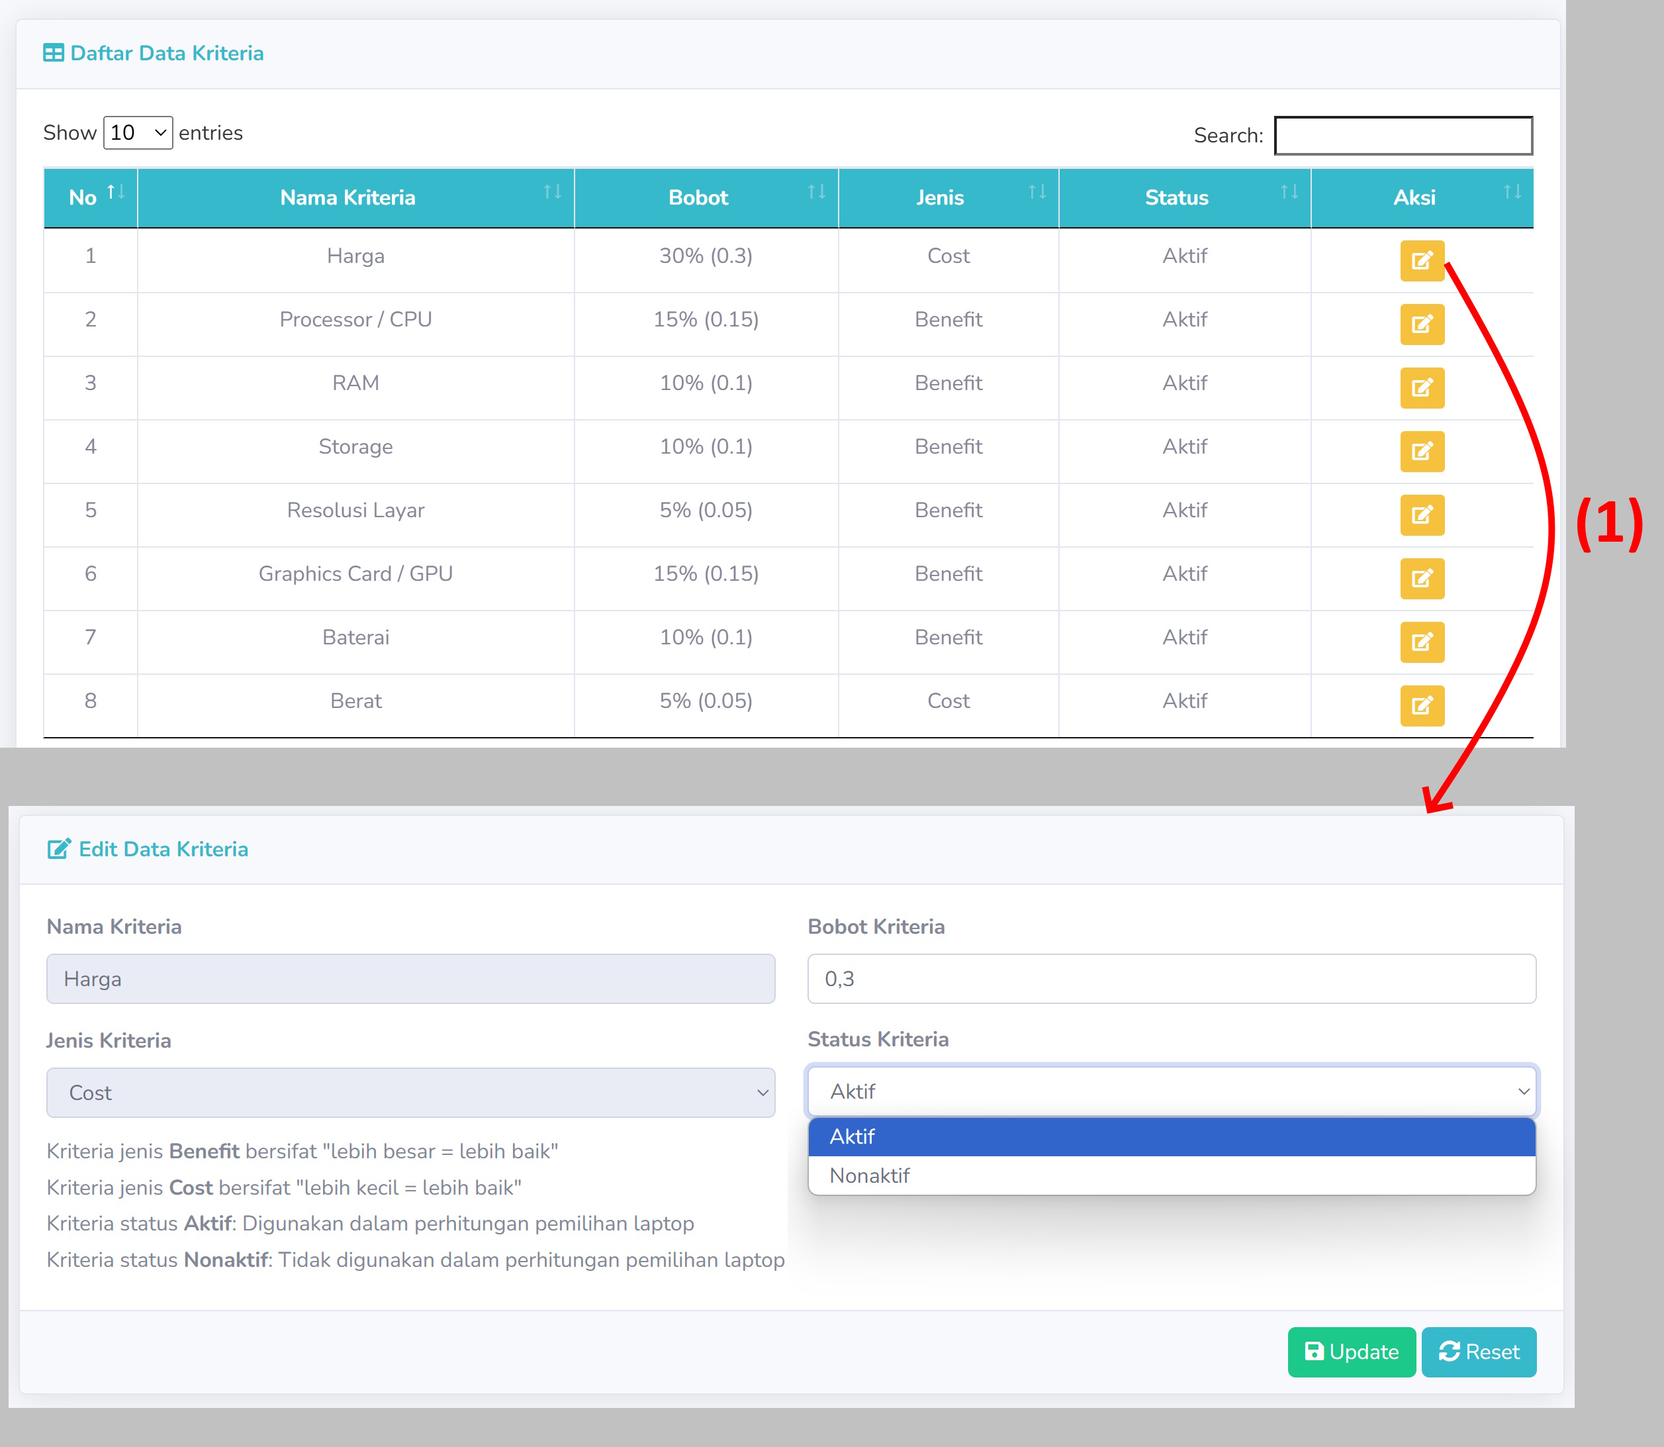
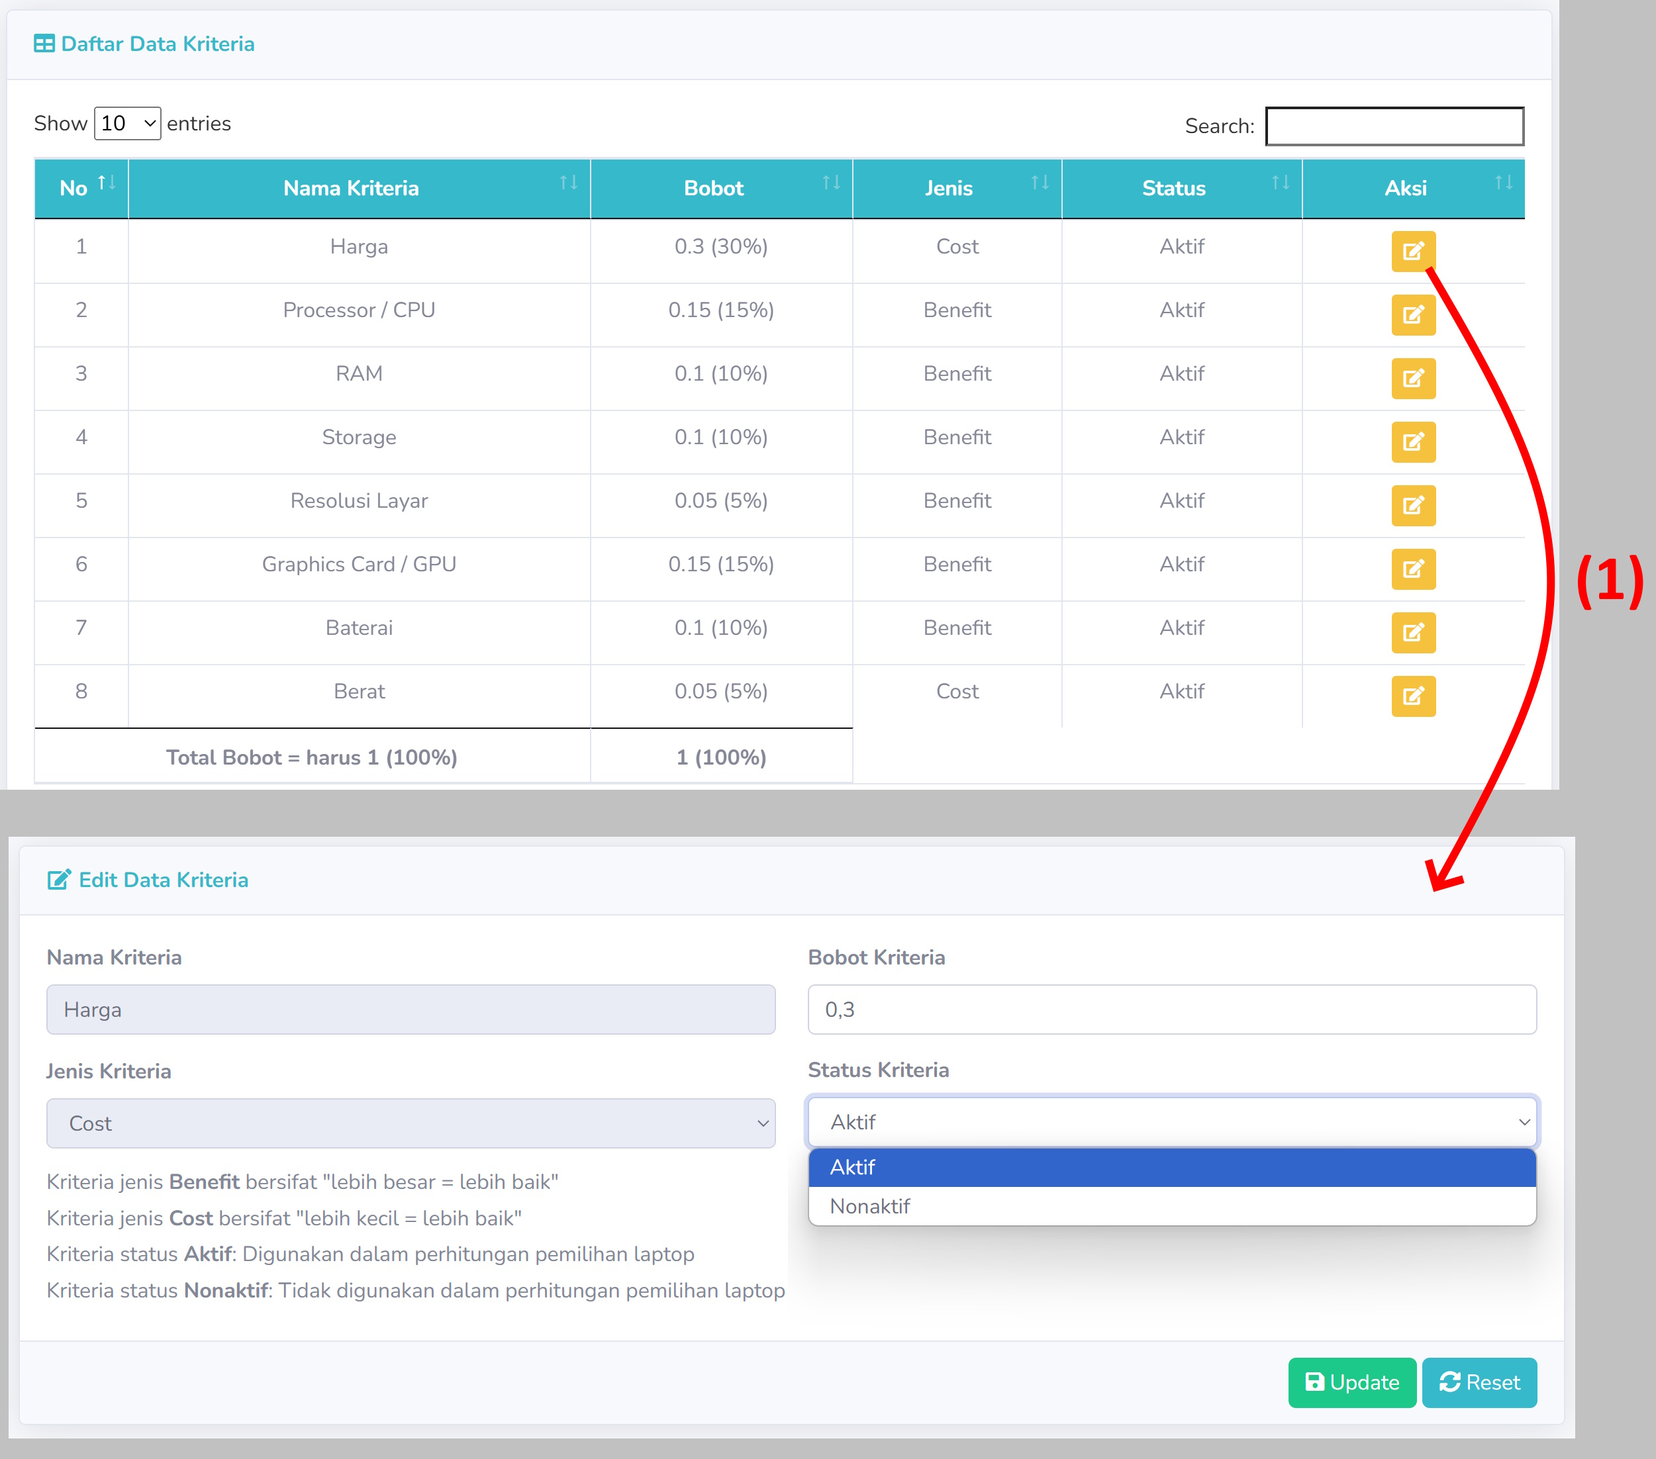
Perbaikan lulus Sidang TA (10-04-2025)

Changed region(s): [[0.0, 0.0, 0.998, 0.9959], [0.0312, 0.3735, 0.0624, 0.4046], [0.0312, 0.2801, 0.0624, 0.3112]]

diff --git a/application/views/kriteria/index.php b/application/views/kriteria/index.php
@@ -30,16 +30,17 @@
 							<th>Kode Kriteria</th>
 						<?php endif; ?>
 						<th>Nama Kriteria</th>
-						<th>Bobot</th>
 						<th>Jenis</th>
-						<th>Status</th>
+						<th>Bobot</th>
 						<th width="15%">Aksi</th>
 					</tr>
 				</thead>
 				<tbody>
 					<?php
+						$jumlah_bobot = 0;
 						$no=1;
 						foreach ($list as $data => $value) {
+							$jumlah_bobot += $value->bobot;
 					?>
 					<tr align="center">
 						<td><?=$no ?></td>
@@ -47,38 +48,97 @@
 							<td><?php echo $value->kode_kriteria ?></td>
 						<?php endif; ?>
 						<td><?php echo $value->keterangan ?></td>
-						<td><?php echo ($value->bobot)*100 ?>% (<?php echo $value->bobot ?>)</td>
 						<td><?php echo $value->jenis ?></td>
-						<td><?php echo $value->status_kriteria ?></td>
+						<td><?php echo $value->bobot ?>%</td>
 						<td>
 							<div class="btn-group" role="group">
-								<a data-toggle="tooltip" data-placement="bottom" title="Edit Data" href="<?=base_url('Kriteria/edit/'.$value->id_kriteria)?>" class="btn btn-warning btn-sm"><i class="fa fa-edit"></i></a>
+								<!-- Kolom Aksi untuk Admin -->
 								<?php if($this->session->userdata('id_user_level') == '1'): ?>
+									<a data-toggle="tooltip" data-placement="bottom" title="Edit Data" href="<?=base_url('Kriteria/edit/'.$value->id_kriteria)?>" class="btn btn-warning btn-sm"><i class="fa fa-edit"></i></a>
 									<a  data-toggle="tooltip" data-placement="bottom" title="Hapus Data" href="<?=base_url('Kriteria/destroy/'.$value->id_kriteria)?>" onclick="return confirm ('Apakah anda yakin untuk menghapus data ini?')" class="btn btn-danger btn-sm"><i class="fa fa-trash"></i></a>
+								<?php endif; ?>
+
+								<!-- Kolom Aksi untuk User -->
+								<?php if($this->session->userdata('id_user_level') != '1'): ?>
+									<a data-toggle="modal" title="Edit Data" href="#editk<?= $value->id_kriteria ?>" class="btn btn-warning btn-sm"><i class="fa fa-edit"></i></a>
 								<?php endif; ?>
 							</div>
 						</td>
 					</tr>
+
+					<!-- Modal Edit Bobot Kriteria (User) -->
+					<div class="modal fade" id="editk<?= $value->id_kriteria ?>" tabindex="-1" role="dialog" aria-labelledby="myModalLabel" aria-hidden="true">
+						<div class="modal-dialog">
+							<div class="modal-content">
+								<div class="modal-header">
+									<h5 class="modal-title" id="myModalLabel"><i class="fa fa-edit"></i> Edit <?= $value->keterangan ?></h5>
+									<button type="button" class="close" data-dismiss="modal" aria-hidden="true">&times;</button>
+								</div>
+								<?= form_open('Kriteria/update_user/'.$value->id_kriteria) ?>
+									<?= form_hidden('id_kriteria', $value->id_kriteria) ?>
+									<div class="modal-body">
+										<input type="text" name="id_kriteria" value="<?= $value->id_kriteria ?>" hidden>
+										<div class="form-group" <?php if ($this->session->userdata('id_user_level') != "1") echo " style='display: none';"; ?>>
+											<label class="font-weight-bold">Kode Kriteria</label>
+											<input autocomplete="off" type="text" name="kode_kriteria" value="<?php echo $value->kode_kriteria ?>" required class="form-control" <?php if($this->session->userdata('id_user_level') != "1"){echo "readonly";} ?> />
+										</div>
+										<div class="form-group">
+											<label class="font-weight-bold">Nama Kriteria</label>
+											<input autocomplete="off" type="text" name="keterangan" value="<?php echo $value->keterangan ?>" required class="form-control" <?php if($this->session->userdata('id_user_level') != "1"){echo "readonly";} ?> />
+										</div>
+										<div class="form-group">
+											<label class="font-weight-bold">Jenis Kriteria</label>
+											<select name="jenis" class="form-control" required <?php if($this->session->userdata('id_user_level') != "1"){echo "readonly style='pointer-events: none';";} ?>>
+												<option value="Benefit" <?php if($value->jenis == "Benefit"){ echo 'selected'; } ?>>Benefit</option>
+												<option value="Cost" <?php if($value->jenis == "Cost"){ echo 'selected'; } ?>>Cost</option>						
+											</select>
+										</div>
+										<div class="form-group">
+											<label for="bobot" class="font-weight-bold">Bobot Kriteria (%)</label>
+											<input type="number" autocomplete="off" id="bobot" name="bobot" min="0" max="100" class="form-control" value="<?= $value->bobot ?>" required>
+										</div>
+									</div>
+									<div class="modal-footer">
+										<button type="button" class="btn btn-warning" data-dismiss="modal"><i class="fa fa-times"></i> Batal</button>
+										<button type="submit" class="btn btn-success"><i class="fa fa-save"></i> Update</button>
+									</div>
+								<?php echo form_close() ?>
+							</div>
+						</div>
+					</div>
+
 					<?php
 						$no++;
 						}
 					?>
 				</tbody>
+				<?php if($jumlah_bobot > 0): ?>
+					<tfoot style="text-align:center">
+						<tr>
+							<?php if($this->session->userdata('id_user_level') == '1'): ?>
+								<td colspan="4" ><b>Total Bobot = harus 100%</b></td>
+							<?php endif; ?>
+
+							<?php if($this->session->userdata('id_user_level') != '1'): ?>
+								<td colspan="3" ><b>Total Bobot = harus 100%</b></td>
+							<?php endif; ?>
+							<td><b><?php echo $jumlah_bobot ?>%</b></td>
+						</tr>
+					</tfoot>
+				<?php endif; ?>
 			</table>
 			<!-- Penjelasan Benefit / Cost jika Admin -->
 			<?php if($this->session->userdata('id_user_level') == '1'): ?>
 				<h6> Kriteria jenis <b>Benefit</b>: Nilai Sub Kriteria yang lebih besar = lebih baik </h6>
 				<h6> Kriteria jenis <b>Cost</b>: Nilai Sub Kriteria yang lebih kecil = lebih baik </h6>
-				<h6> Kriteria status <b>Aktif</b>: Digunakan dalam perhitungan pemilihan alternatif </h6>
-				<h6> Kriteria status <b>Nonaktif</b>: Tidak digunakan dalam perhitungan pemilihan alternatif </h6>
+				<h6> Kriteria bobot <b>0%</b>: Tidak digunakan dalam perhitungan pemilihan alternatif </h6>
 			<?php endif; ?>
 
 			<!-- Penjelasan Benefit / Cost jika User -->
 			<?php if($this->session->userdata('id_user_level') != '1'): ?>
 				<h6> Kriteria jenis <b>Benefit</b> bersifat "lebih besar = lebih baik" </h6>
 				<h6> Kriteria jenis <b>Cost</b> bersifat "lebih kecil = lebih baik" </h6>
-				<h6> Kriteria status <b>Aktif</b>: Digunakan dalam perhitungan pemilihan laptop </h6>
-				<h6> Kriteria status <b>Nonaktif</b>: Tidak digunakan dalam perhitungan pemilihan laptop </h6>
+				<h6> Kriteria bobot <b>0%</b>: Tidak digunakan dalam perhitungan pemilihan laptop </h6>
 			<?php endif; ?>
 		</div>
 	</div>

diff --git a/application/controllers/Kriteria.php b/application/controllers/Kriteria.php
@@ -44,15 +44,13 @@
                     'keterangan' => $this->input->post('keterangan'),
                     'kode_kriteria' => $this->input->post('kode_kriteria'),
                     'bobot' => $this->input->post('bobot'),
-                    'jenis' => $this->input->post('jenis'),
-                    'status_kriteria' => $this->input->post('status_kriteria')
+                    'jenis' => $this->input->post('jenis')
                 ];
                 
                 $this->form_validation->set_rules('keterangan', 'Keterangan', 'required|is_unique[kriteria.keterangan]');
                 $this->form_validation->set_rules('kode_kriteria', 'Kode Kriteria', 'required|is_unique[kriteria.kode_kriteria]');
                 $this->form_validation->set_rules('bobot', 'Bobot', 'required');
                 $this->form_validation->set_rules('jenis', 'Jenis', 'required');
-                $this->form_validation->set_rules('status_kriteria', 'Status Kriteria', 'required');
 
                 
     
@@ -93,8 +91,7 @@
                 'keterangan' => $this->input->post('keterangan'),
                 'kode_kriteria' => $this->input->post('kode_kriteria'),
                 'bobot' => $this->input->post('bobot'),
-                'jenis' => $this->input->post('jenis'),
-                'status_kriteria' => $this->input->post('status_kriteria')
+                'jenis' => $this->input->post('jenis')
             );
 
             // Validasi update data  (https://stackoverflow.com/questions/27621250/is-unique-in-codeigniter-for-edit-function) Ellix4u's solution
@@ -108,6 +105,28 @@
             } else {
                 $this->session->set_flashdata('message', '<div class="alert alert-danger" role="alert">Data gagal di update! Kode atau Nama Kriteria sudah ada di database.</div>');
                 redirect('Kriteria/edit/'.$id_kriteria);
+            }
+        }
+
+        public function update_user($id_kriteria)
+        {
+            // TODO: implementasi update data berdasarkan $id_sub_kriteria
+            $id_kriteria = $this->input->post('id_kriteria');
+            $data = array(
+                'keterangan' => $this->input->post('keterangan'),
+                'kode_kriteria' => $this->input->post('kode_kriteria'),
+                'bobot' => $this->input->post('bobot'),
+                'jenis' => $this->input->post('jenis')
+            );
+
+            // Validasi update data  (https://stackoverflow.com/questions/27621250/is-unique-in-codeigniter-for-edit-function) Ellix4u's solution
+            $id = $this->uri->segment(3);
+            $this->form_validation->set_rules('keterangan', 'Keterangan', 'required|edit_unique[kriteria.keterangan.id_kriteria.'.$id.']');
+            if ($this->form_validation->run() != false) {
+                $this->Kriteria_model->update($id_kriteria, $data);
+                
+                $this->session->set_flashdata('message', '<div class="alert alert-success" role="alert">Bobot Kriteria "'.$this->input->post('keterangan').'" berhasil di update!</div>');
+                redirect('Kriteria');
             }
         }
     

diff --git a/application/views/kriteria/edit.php b/application/views/kriteria/edit.php
@@ -30,11 +30,6 @@
 				</div>
 				
 				<div class="form-group col-md-6">
-					<label class="font-weight-bold">Bobot Kriteria</label>
-					<input autocomplete="off" type="number" name="bobot" step="0.01" min="0.01" max="1" value="<?php echo $kriteria->bobot ?>" required class="form-control"/>
-				</div>
-				
-				<div class="form-group col-md-6">
 					<label class="font-weight-bold">Jenis Kriteria</label>
 					<select name="jenis" class="form-control" required <?php if($this->session->userdata('id_user_level') != "1"){echo "readonly style='pointer-events: none';";} ?>>
 						<option value="Benefit" <?php if($kriteria->jenis == "Benefit"){ echo 'selected'; } ?>>Benefit</option>
@@ -43,27 +38,22 @@
 				</div>
 
 				<div class="form-group col-md-6">
-					<label class="font-weight-bold">Status Kriteria</label>
-					<select name="status_kriteria" class="form-control" required >
-						<option value="Aktif" <?php if($kriteria->status_kriteria == "Aktif"){ echo 'selected'; } ?>>Aktif</option>
-						<option value="Nonaktif" <?php if($kriteria->status_kriteria == "Nonaktif"){ echo 'selected'; } ?>>Nonaktif</option>						
-					</select>
+					<label class="font-weight-bold">Bobot Kriteria (%)</label>
+					<input autocomplete="off" type="number" name="bobot" step="1" min="0" max="100" value="<?php echo $kriteria->bobot ?>" required class="form-control"/>
 				</div>
 			</div>
 			<!-- Penjelasan Benefit / Cost jika Admin -->
 			<?php if($this->session->userdata('id_user_level') == '1'): ?>
 				<h6> Kriteria jenis <b>Benefit</b>: Nilai Sub Kriteria yang lebih besar = lebih baik </h6>
 				<h6> Kriteria jenis <b>Cost</b>: Nilai Sub Kriteria yang lebih kecil = lebih baik </h6>
-				<h6> Kriteria status <b>Aktif</b>: Digunakan dalam perhitungan pemilihan alternatif </h6>
-				<h6> Kriteria status <b>Nonaktif</b>: Tidak digunakan dalam perhitungan pemilihan alternatif </h6>
+				<h6> Kriteria bobot <b>0%</b>: Tidak digunakan dalam perhitungan pemilihan alternatif </h6>
 			<?php endif; ?>
 
 			<!-- Penjelasan Benefit / Cost jika User -->
 			<?php if($this->session->userdata('id_user_level') != '1'): ?>
 				<h6> Kriteria jenis <b>Benefit</b> bersifat "lebih besar = lebih baik" </h6>
 				<h6> Kriteria jenis <b>Cost</b> bersifat "lebih kecil = lebih baik" </h6>
-				<h6> Kriteria status <b>Aktif</b>: Digunakan dalam perhitungan pemilihan laptop </h6>
-			<h6> Kriteria status <b>Nonaktif</b>: Tidak digunakan dalam perhitungan pemilihan laptop </h6>
+				<h6> Kriteria bobot <b>0%</b>: Tidak digunakan dalam perhitungan pemilihan laptop </h6>
 			<?php endif; ?>
 		</div>
 		<div class="card-footer text-right">

diff --git a/application/views/kriteria/create.php b/application/views/kriteria/create.php
@@ -29,11 +29,6 @@
 				</div>
 				
 				<div class="form-group col-md-6">
-					<label class="font-weight-bold">Bobot Kriteria</label>
-					<input autocomplete="off" type="number" name="bobot" step="0.01" min="0.01" max="1" required class="form-control"/>
-				</div>
-				
-				<div class="form-group col-md-6">
 					<label class="font-weight-bold">Jenis Kriteria</label>
 					<select name="jenis" class="form-control" required>
 						<option value="">--Pilih Jenis Kriteria--</option>
@@ -43,18 +38,13 @@
 				</div>
 
 				<div class="form-group col-md-6">
-					<label class="font-weight-bold">Status Kriteria</label>
-					<select name="status_kriteria" class="form-control" required>
-						<option value="">--Pilih Status Kriteria--</option>
-						<option value="Benefit">Aktif</option>
-						<option value="Cost">Nonaktif</option>						
-					</select>
+					<label class="font-weight-bold">Bobot Kriteria (%)</label>
+					<input autocomplete="off" type="number" name="bobot" step="1" min="0" max="100" required class="form-control"/>
 				</div>
 			</div>
 			<h6> Kriteria jenis <b>Benefit</b>: Nilai Sub Kriteria yang lebih besar = lebih baik </h6>
 			<h6> Kriteria jenis <b>Cost</b>: Nilai Sub Kriteria yang lebih kecil = lebih baik </h6>
-			<h6> Kriteria status <b>Aktif</b>: Digunakan dalam perhitungan pemilihan alternatif </h6>
-			<h6> Kriteria status <b>Nonaktif</b>: Tidak digunakan dalam perhitungan pemilihan alternatif </h6>
+			<h6> Kriteria bobot <b>0%</b>: Tidak digunakan dalam perhitungan pemilihan alternatif </h6>
 		</div>
 		<div class="card-footer text-right">
             <button type="submit" class="btn btn-success"><i class="fa fa-save"></i> Simpan</button>

diff --git a/application/views/perhitungan/perhitungan.php b/application/views/perhitungan/perhitungan.php
@@ -14,8 +14,8 @@ if ($alternatifs == NULL || $kriterias == NULL){
 }
 
 // User dapat memilih kriteria yang digunakan (https://stackoverflow.com/questions/21168422/how-to-access-a-property-of-an-object-stdclass-object-member-element-of-an-arr)
-$status_kriteria = "Nonaktif";
-$id_kriteria_tidak_aktif1 = $this->Perhitungan_model->get_id_kriteria_tidak_aktif($status_kriteria);
+$bobot_kriteria_tidak_aktif = 0;
+$id_kriteria_tidak_aktif1 = $this->Perhitungan_model->get_id_kriteria_tidak_aktif($bobot_kriteria_tidak_aktif);
 $id_kriteria_tidak_aktif2 = array_column($id_kriteria_tidak_aktif1, 'id_kriteria');
 $key_kriteria_tidak_aktif1 = array();
 
@@ -145,7 +145,7 @@ foreach($alternatifs as $alternatif):
 	$id_alternatif = $alternatif->id_alternatif;
 	foreach($kriterias as $kriteria):
 		$id_kriteria = $kriteria->id_kriteria;
-		$bobot = $kriteria->bobot;
+		$bobot = ($kriteria->bobot)/100;
 		$r = $matriks_r[$id_kriteria][$id_alternatif];
 		$rb = $r*$bobot;
 		// Perhitungan bagian Matriks Normalisasi Terbobot (A1 dan berikutnya)
@@ -161,7 +161,7 @@ $total_rb0 = 0;
 foreach($kriterias as $kriteria):
 	$id_kriteria = $kriteria->id_kriteria;
 	$r0 = $matriks_r0[$id_kriteria];
-	$bobot = $kriteria->bobot;
+	$bobot = ($kriteria->bobot)/100;
 	$rb = $r0*$bobot;
 	// Perhitungan bagian Matriks Normalisasi Terbobot (A0 saja)
 	$matriks_rb0[$id_kriteria] = $rb;
@@ -415,7 +415,7 @@ skip_perhitungan:
 						<?php foreach ($kriterias as $kriteria): ?>
 						<td>
 						<?php 
-						echo $kriteria->bobot;
+						echo ($kriteria->bobot)/100;
 						?>
 						</td>
 						<?php endforeach ?>

diff --git a/application/views/login.php b/application/views/login.php
@@ -71,12 +71,12 @@
                                             <div class="form-group">
                                                 <input required autocomplete="off" type="password" class="form-control form-control-user" id="exampleInputPassword" name="password" placeholder="Password" />
                                             </div>
-                                            <button name="submit" type="submit" class="btn btn-info btn-user btn-block"><i class="fas fa-fw fa-sign-in-alt mr-1"></i> Login sebagai Admin</button>
+                                            <button name="submit" type="submit" class="btn btn-info btn-user btn-block"><i class="fas fa-fw fa-sign-in-alt mr-1"></i> Login sebagai Admin / Karyawan</button>
                                         </form>
 
                                         <form class="user" action="<?php echo site_url('Login/masuk_user'); ?>" method="post">
                                             <hr class="sidebar-divider">
-                                            <button name="masuk" type="submit" class="btn btn-primary btn-user btn-block"><i class="fas fa-fw fa-caret-right mr-1"></i> Masuk sebagai User (tanpa perlu login)</button>
+                                            <button name="masuk" type="submit" class="btn btn-primary btn-user btn-block"><i class="fas fa-fw fa-caret-right mr-1"></i> Masuk sebagai User / Pelanggan (tanpa login)</button>
                                         </form>
                                        
                                     </div>

diff --git a/application/views/sub_kriteria/index.php b/application/views/sub_kriteria/index.php
@@ -26,7 +26,7 @@
     <!-- /.card-header -->
     <div class="card-header py-3">
         <div class="d-sm-flex align-items-center justify-content-between">
-			<h6 class="m-0 font-weight-bold text-info"><i class="fa fa-table"></i> <?= $key->keterangan." (".$key->kode_kriteria.") - ".$key->jenis." [Bobot = ".$key->bobot."]" ?></h6>
+			<h6 class="m-0 font-weight-bold text-info"><i class="fa fa-table"></i> <?= $key->keterangan." (".$key->kode_kriteria.") - ".$key->jenis." [Bobot = ".$key->bobot."%]" ?></h6>
 			<?php if($this->session->userdata('id_user_level') == '1'): ?>
 				<a href="#tambah<?= $key->id_kriteria ?>" data-toggle="modal" class="btn btn-sm btn-success"> <i class="fa fa-plus"></i> Tambah Data </a>
 			<?php endif; ?>

diff --git a/application/models/Perhitungan_model.php b/application/models/Perhitungan_model.php
@@ -67,9 +67,9 @@
         }
 
         // Kode untuk mendapatkan id_kriteria dengan status "Nonaktif"
-        public function get_id_kriteria_tidak_aktif($status)
+        public function get_id_kriteria_tidak_aktif($bobot)
         {
-            $query = $this->db->query("SELECT id_kriteria FROM kriteria WHERE status_kriteria = '".$status."';");
+            $query = $this->db->query("SELECT id_kriteria FROM kriteria WHERE bobot = '".$bobot."';");
             return $query->result_array();
         }
     }

diff --git a/application/models/Kriteria_model.php b/application/models/Kriteria_model.php
@@ -29,8 +29,7 @@
                 'keterangan' => $data['keterangan'],
                 'kode_kriteria' => $data['kode_kriteria'],
                 'bobot'  => $data['bobot'],
-                'jenis'  => $data['jenis'],
-                'status_kriteria'  => $data['status_kriteria']
+                'jenis'  => $data['jenis']
             );
 
             $this->db->where('id_kriteria', $id_kriteria);
